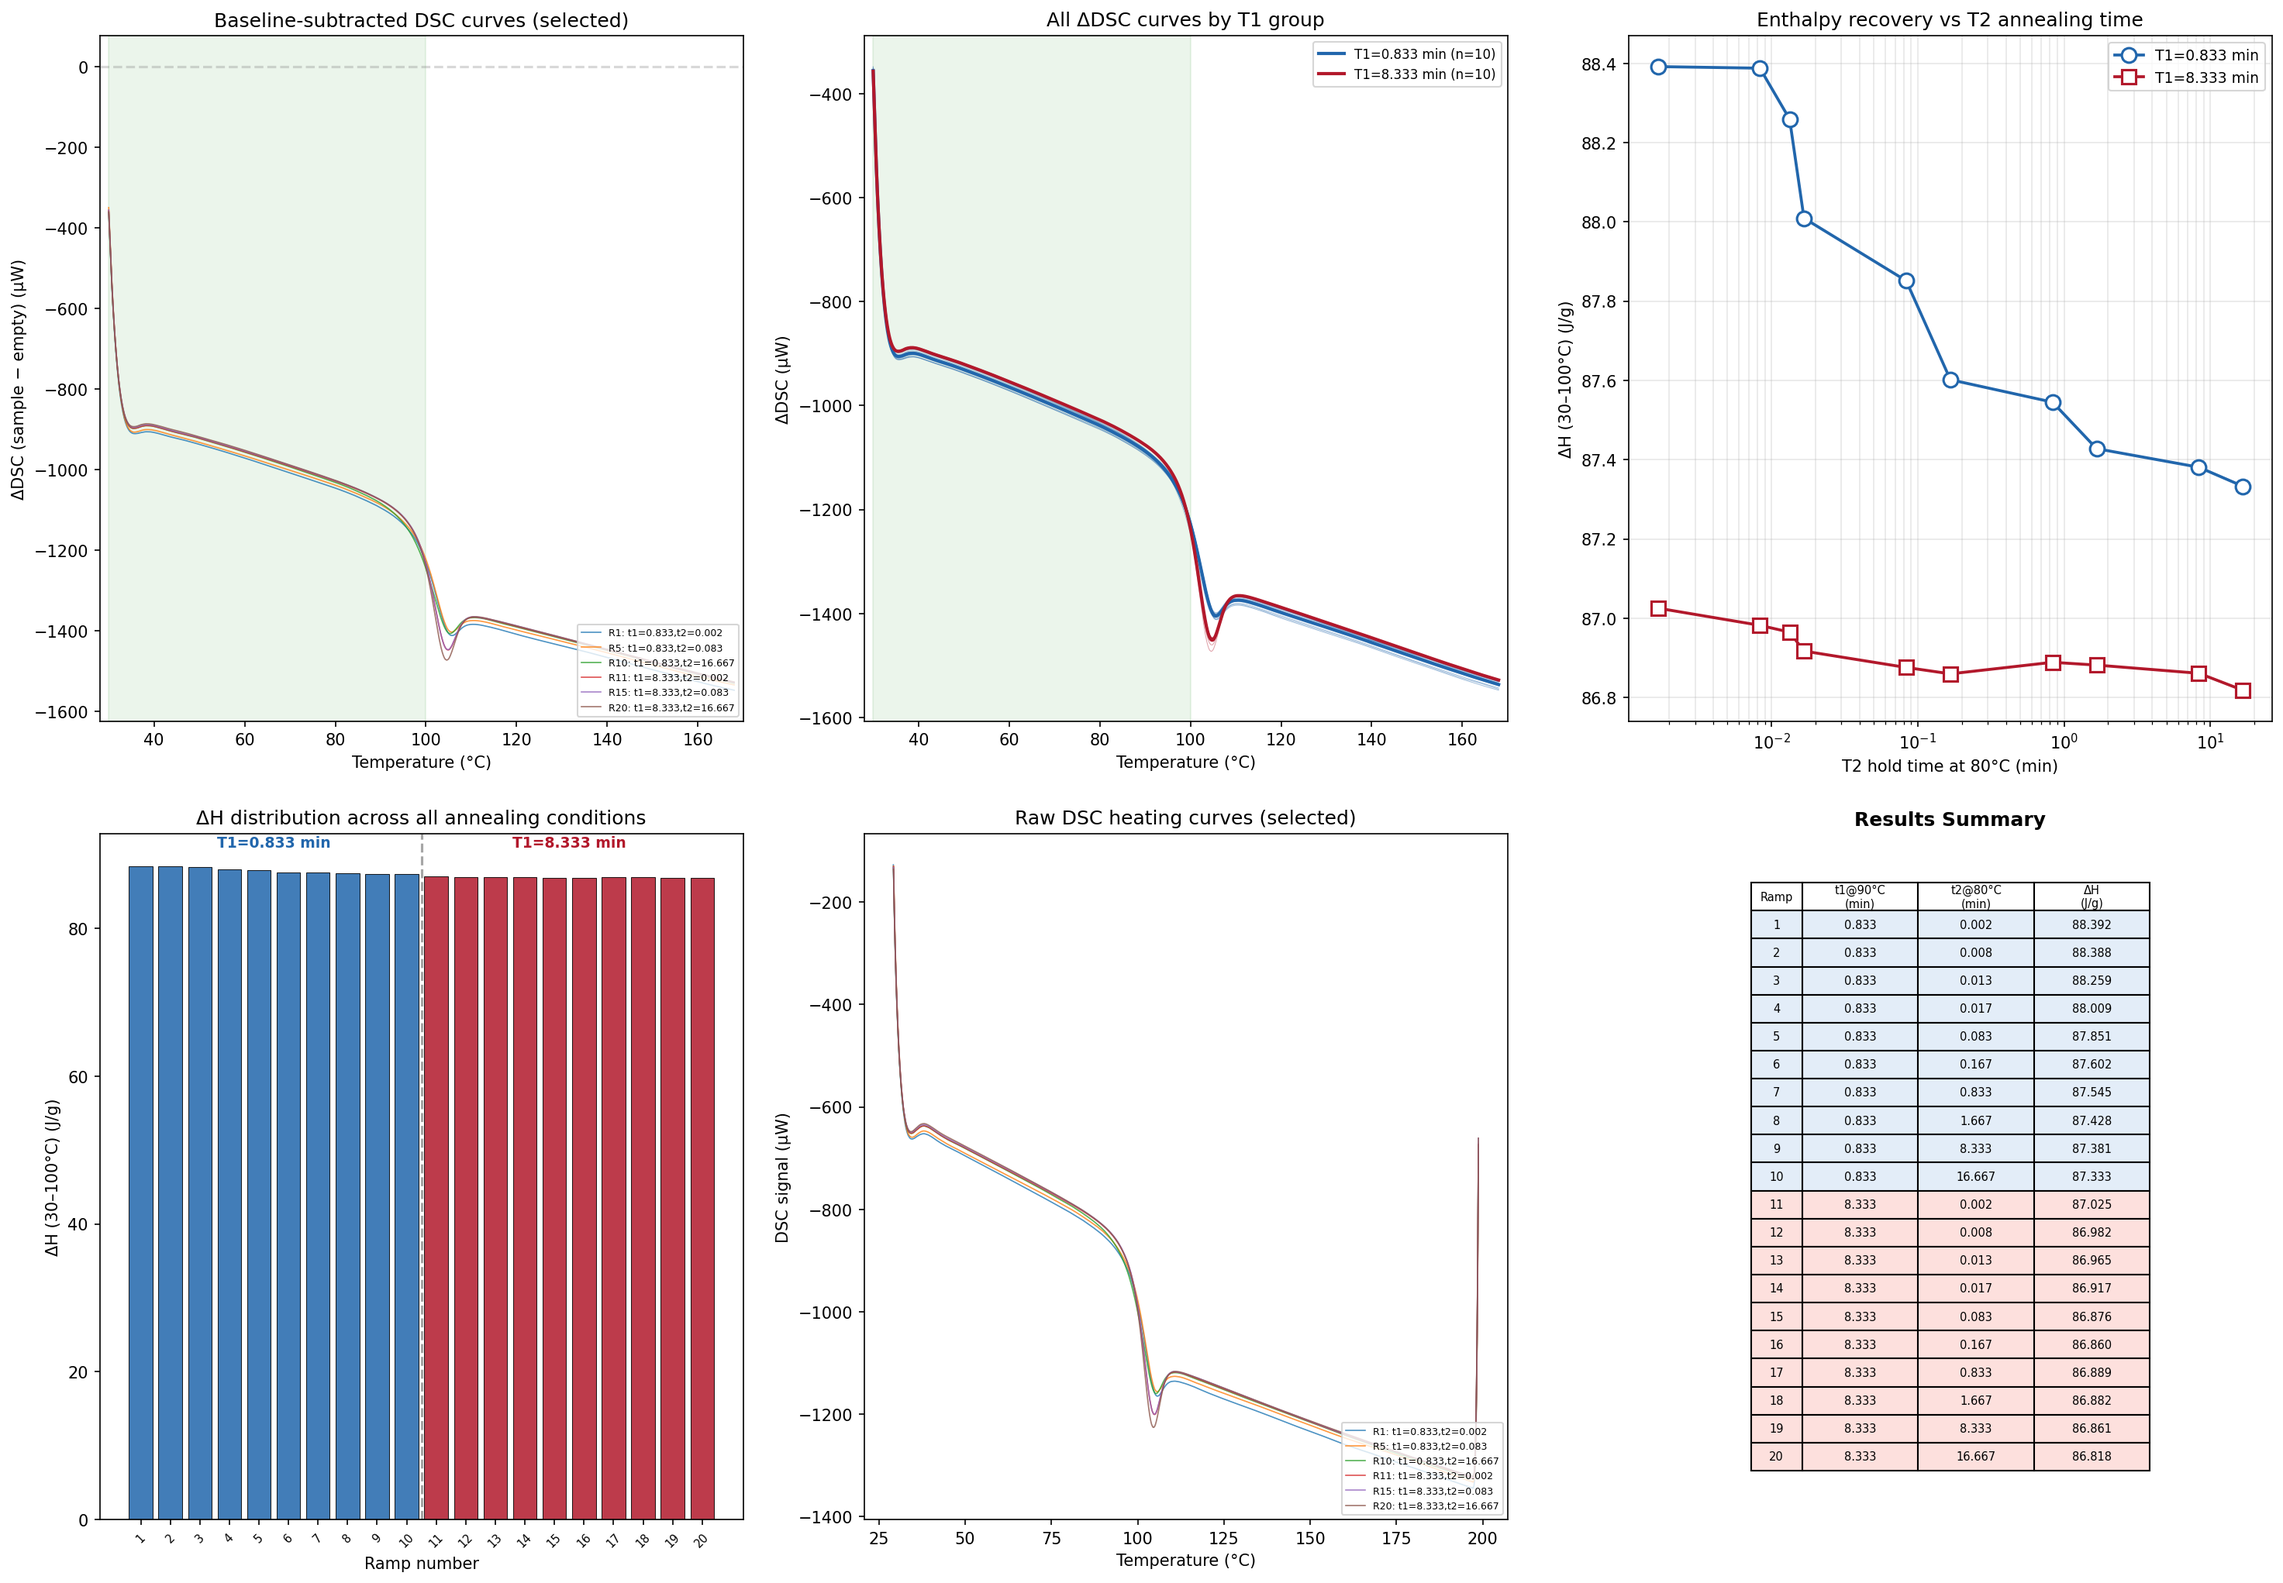
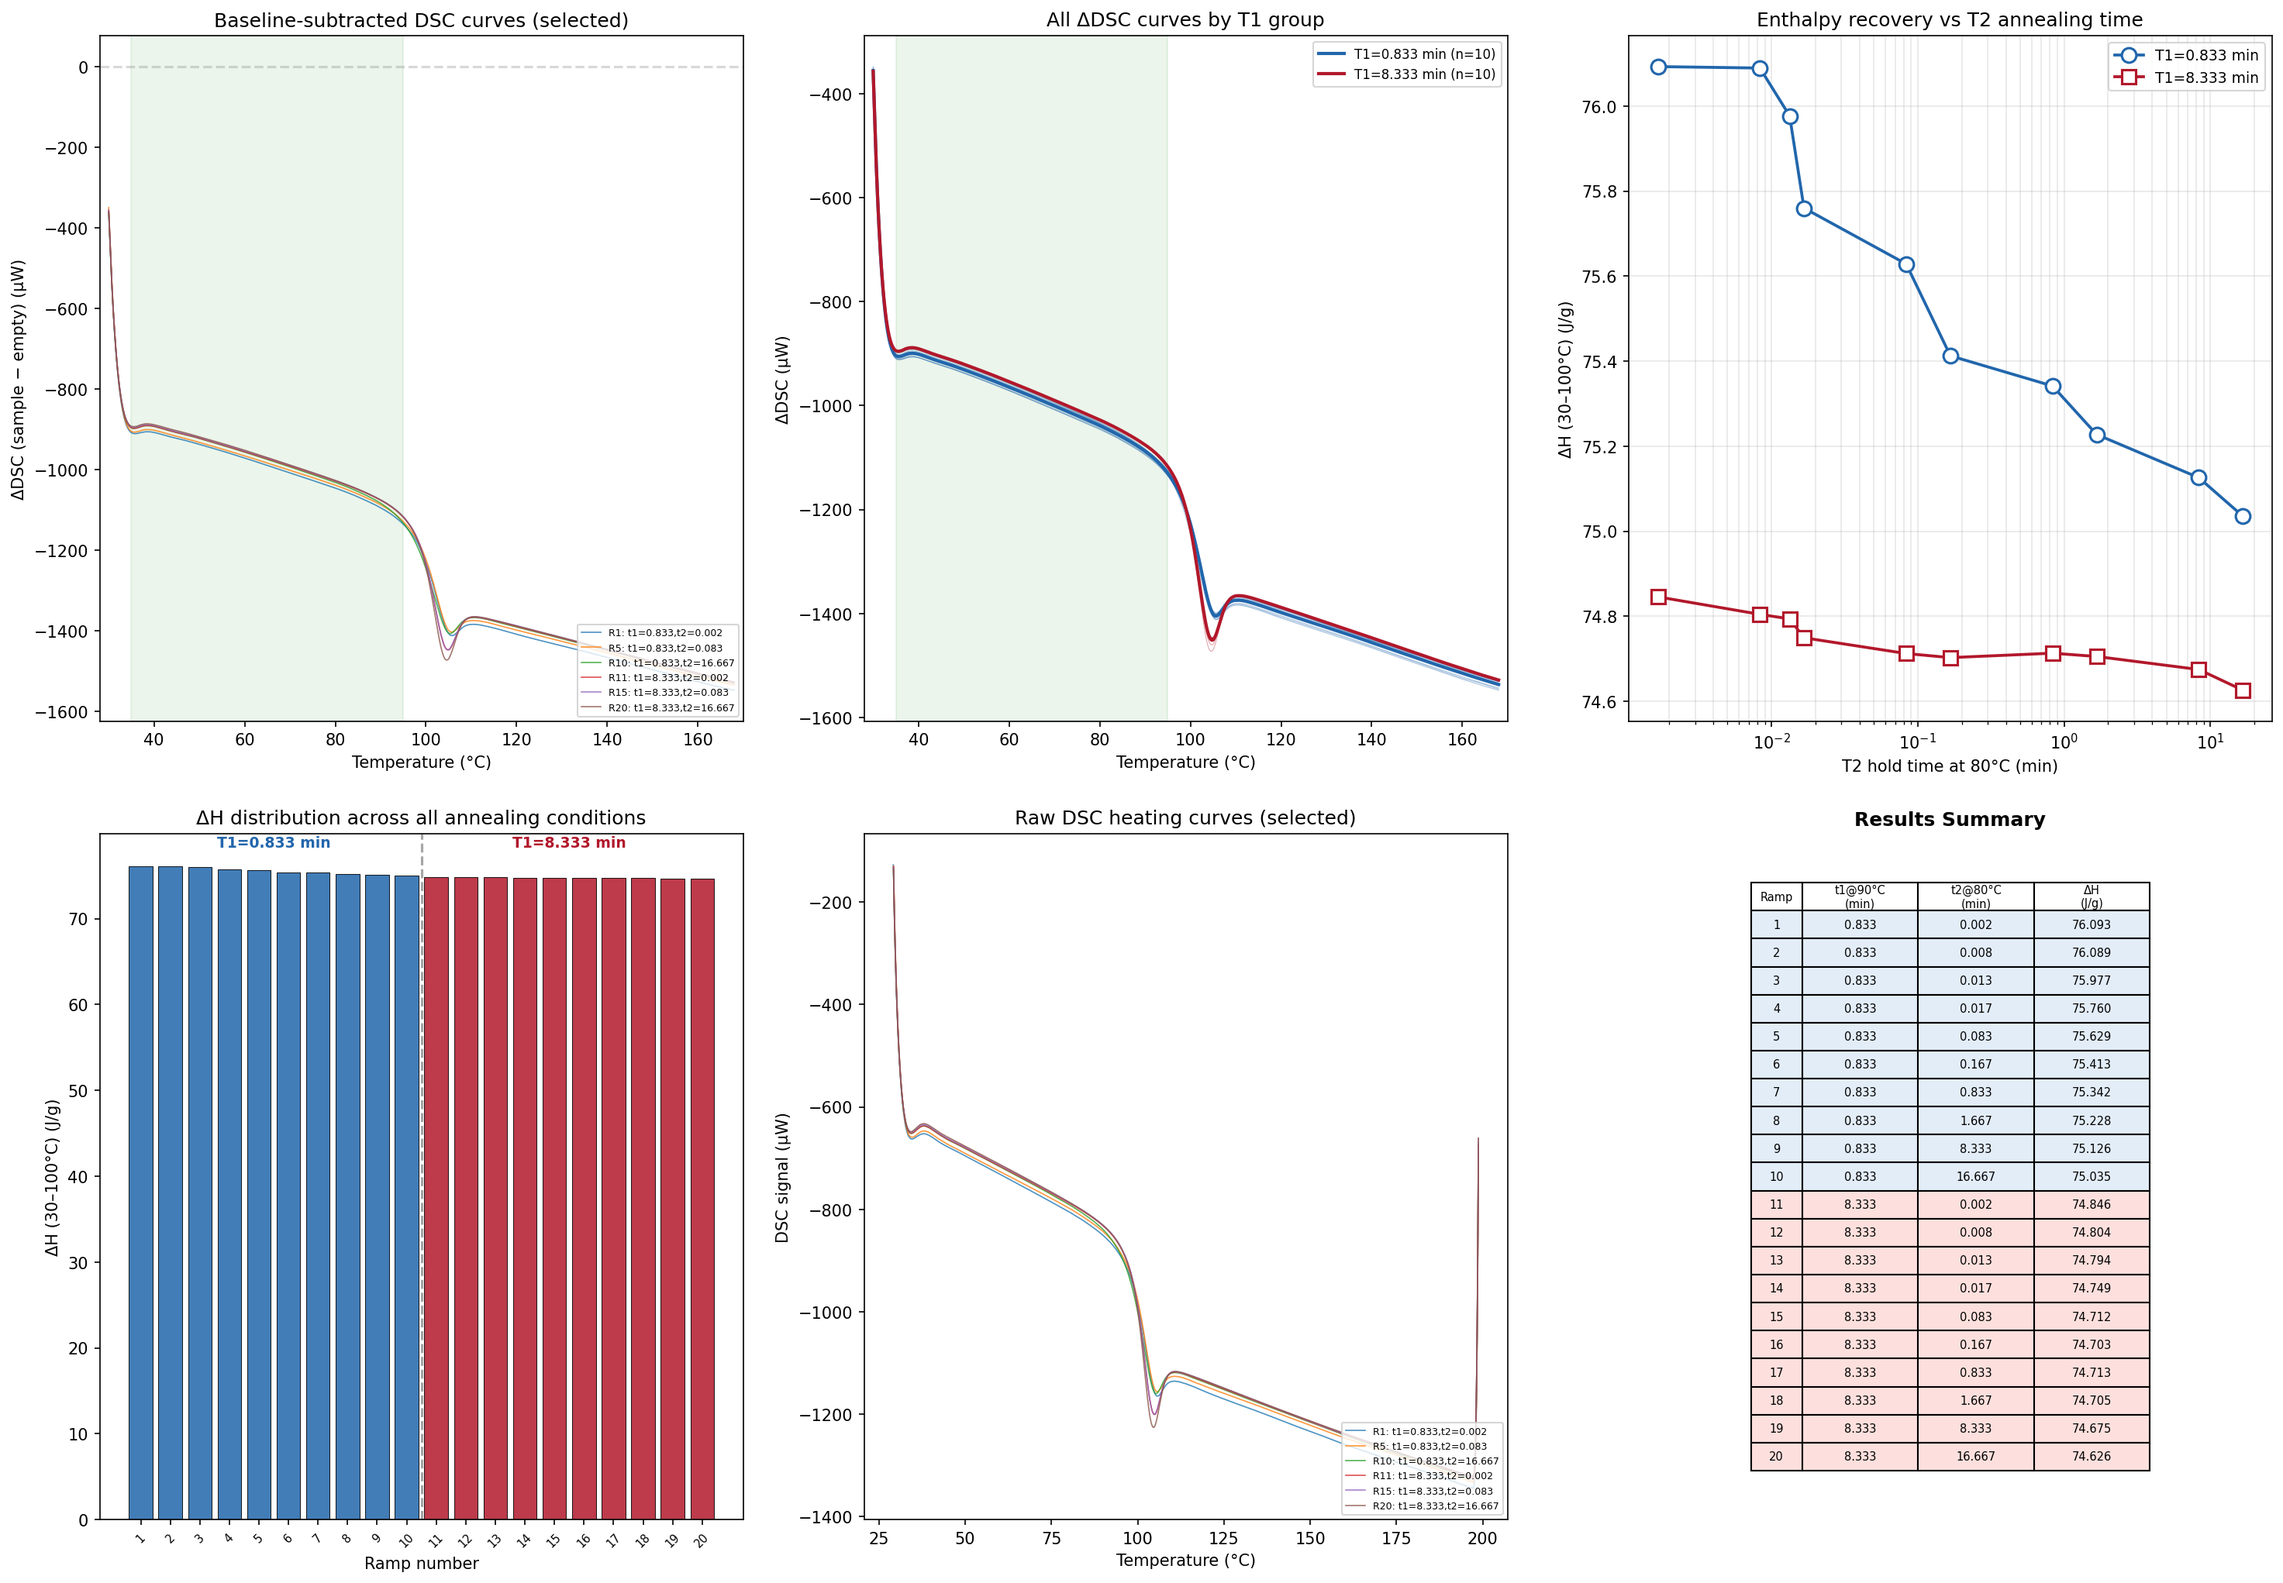
Switch integration range to 35-95°C

diff --git a/src/process_twosteps.py b/src/process_twosteps.py
@@ -25,8 +25,8 @@ DT_DT = 1.0 / BETA   # s/°C  (time per degree)
 #                          = 6 / 4700 * ∫ΔDSC dT   (µW·°C → J/g)
 CONV_FACTOR = DT_DT / (M_SAMPLE * 1000)  # (µW·°C → J/g)
 
-T_INT_LOW  = 30
-T_INT_HIGH = 100
+T_INT_LOW  = 35
+T_INT_HIGH = 95
 
 # ── Data loading ──────────────────────────────────────────────────────────
 def load_dsc_simple(filename, sheet=None):

diff --git a/src/process_kovacs.py b/src/process_kovacs.py
@@ -24,8 +24,8 @@ DT_DT = 1.0 / BETA   # s/°C
 # ΔH(J/g) = DT_DT / (M_SAMPLE * 1000) * ∫ΔDSC dT  (µW·°C → J/g)
 CONV_FACTOR = DT_DT / (M_SAMPLE * 1000)
 
-T_INT_LOW  = 30
-T_INT_HIGH = 100
+T_INT_LOW  = 35
+T_INT_HIGH = 95
 
 # ── Data loading ──────────────────────────────────────────────────────────
 def load_dsc_simple(filename, sheet=None):
